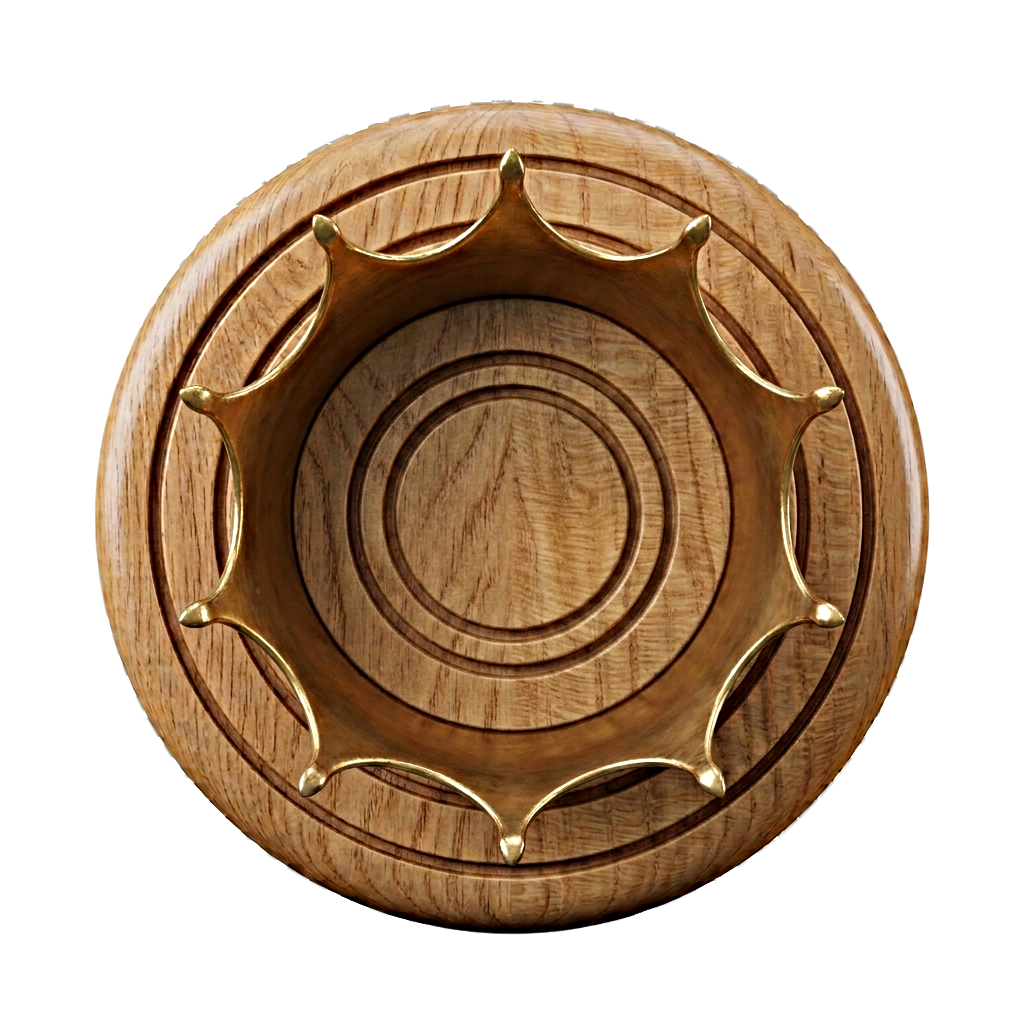
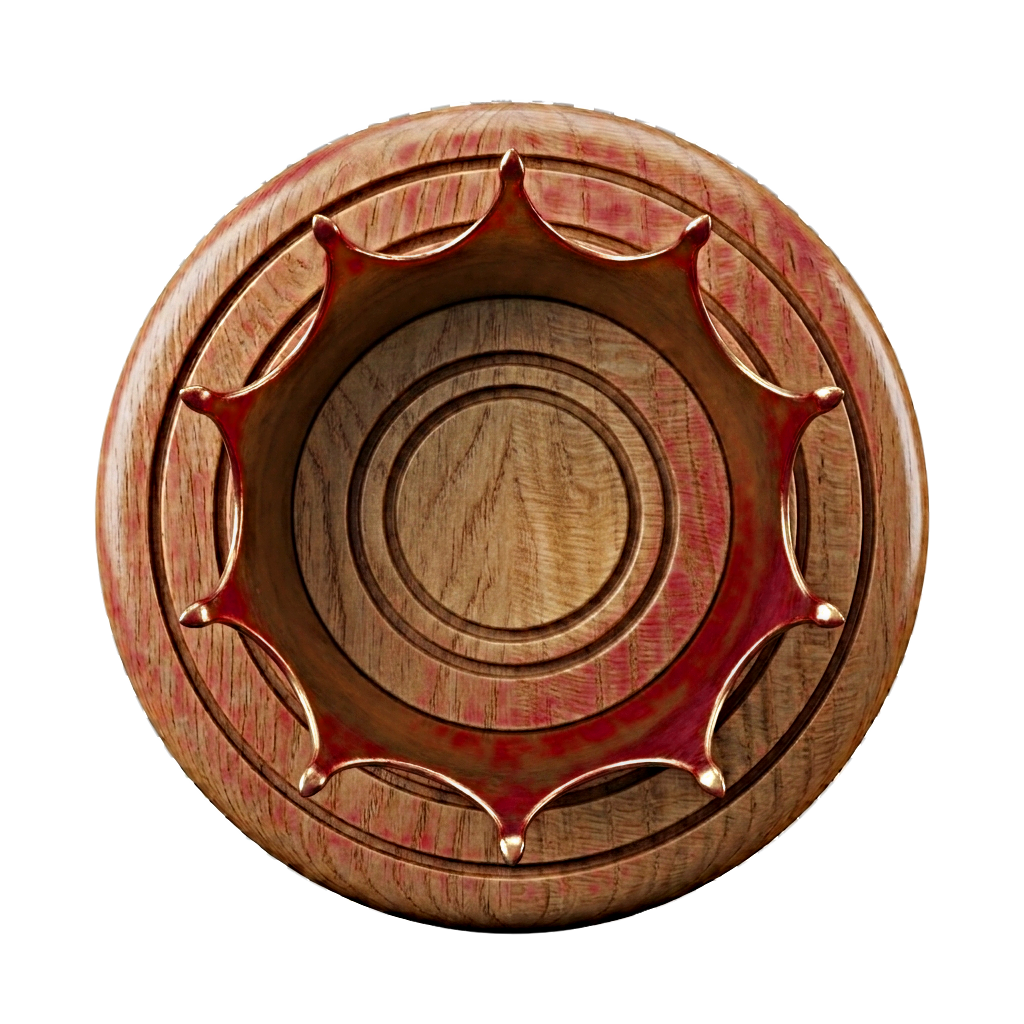
Aide debutant: message prise obligatoire et anneau dore pulsant sur pieces capteuses

diff --git a/src/ui/drag-drop.js b/src/ui/drag-drop.js
@@ -12,7 +12,7 @@ function squareEq(a, b) {
  * instead of separate mouse/touch listeners, is what keeps multi-square king
  * drags reliable on touch devices.
  */
-export function createBoardController(boardEl, { onMove }) {
+export function createBoardController(boardEl, { onMove, onBlockedPiece }) {
   let state = null;
   let legalMoves = [];
   let interactive = false;
@@ -77,6 +77,20 @@ export function createBoardController(boardEl, { onMove }) {
     ghostEl.style.top = `${clientY - size / 2}px`;
   }
 
+  function handleBlockedClick(square) {
+    clearSelection();
+    render();
+    const pieceHere = state.grid[square.row][square.col];
+    const mustCapture = legalMoves.length > 0 && legalMoves[0].isCapture;
+    if (pieceHere && pieceHere.color === state.turn && mustCapture) {
+      if (onBlockedPiece) onBlockedPiece();
+      for (const m of legalMoves) {
+        const el = boardEl.querySelector(`.piece[data-row="${m.from.row}"][data-col="${m.from.col}"]`);
+        if (el) el.classList.add('piece--must-capture');
+      }
+    }
+  }
+
   function handlePointerDown(e) {
     if (!interactive) return;
     const squareEl = e.target.closest('.square');
@@ -103,8 +117,7 @@ export function createBoardController(boardEl, { onMove }) {
       boardEl.setPointerCapture(e.pointerId);
       render();
     } else {
-      clearSelection();
-      render();
+      handleBlockedClick(square);
     }
   }
 

diff --git a/src/style.css b/src/style.css
@@ -291,3 +291,14 @@ body {
 .piece--white {
   filter: drop-shadow(0 3px 4px rgba(0, 0, 0, 0.55));
 }
+
+/* === Aide debutant : prise obligatoire === */
+@keyframes pulse-capture {
+  0%, 100% { box-shadow: 0 0 0 3px rgba(212, 175, 55, 0.95), 0 0 16px 6px rgba(212, 175, 55, 0.55); }
+  50% { box-shadow: 0 0 0 6px rgba(212, 175, 55, 0.45), 0 0 24px 12px rgba(212, 175, 55, 0.2); }
+}
+
+.piece--must-capture {
+  border-radius: 50%;
+  animation: pulse-capture 0.9s ease-in-out infinite;
+}

diff --git a/src/main.js b/src/main.js
@@ -9,7 +9,7 @@ const HUMAN_COLOR = WHITE;
 const AI_COLOR = BLACK;
 
 const boardEl = document.getElementById('board');
-const controller = createBoardController(boardEl, { onMove: handleHumanMove });
+const controller = createBoardController(boardEl, { onMove: handleHumanMove, onBlockedPiece: handleBlockedPiece });
 const controls = setupControls({ onNewGame: startNewGame });
 
 let state = createInitialState();
@@ -40,6 +40,9 @@ function refreshUI() {
   }
 }
 
+function handleBlockedPiece() {
+  controls.setMessage('Prise obligatoire ! Ce pion ne peut pas jouer : capturez avec un pion illumin\u00E9.');
+}
 function handleHumanMove(move) {
   state = applyMove(state, move);
   lastMove = move;